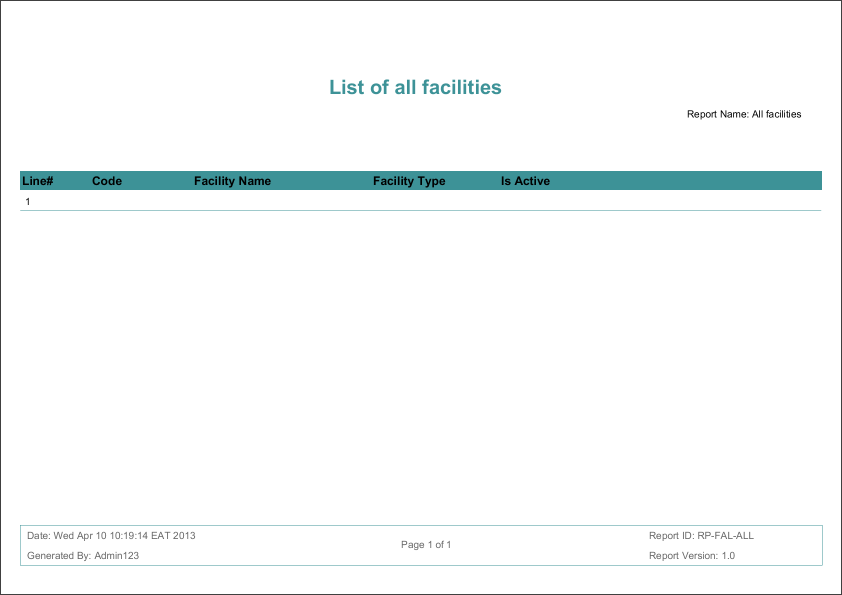
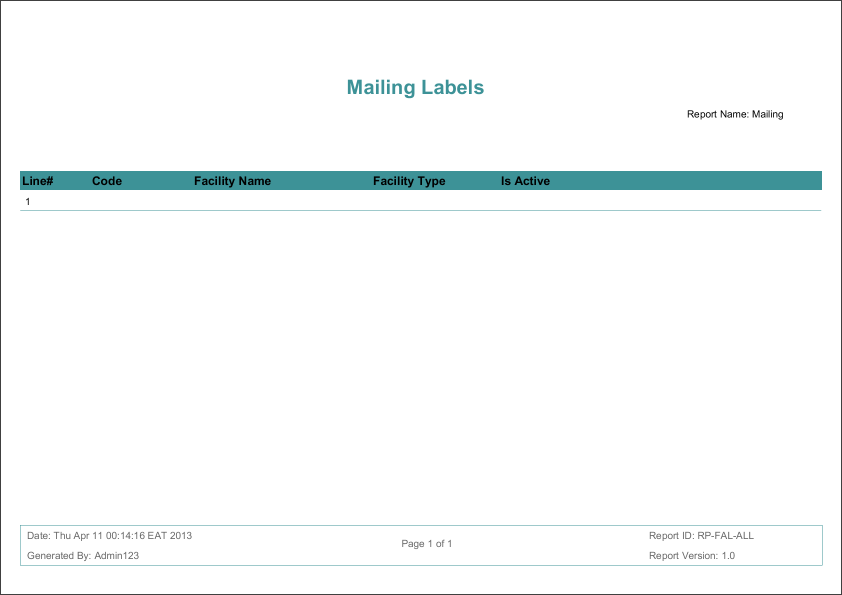
Mailing report filtering added

diff --git a/modules/openlmis-web/src/main/webapp/public/pages/reports/mailinglabels/partials/list.html b/modules/openlmis-web/src/main/webapp/public/pages/reports/mailinglabels/partials/list.html
@@ -59,8 +59,8 @@
         <div class="box-header" style="text-align: right">
           <!--   <h2><i class="icon-user"></i><span class="break"></span>Facility Lists</h2>-->
              <div class="box-icon">
-                  <a href="/reports/download/facilities/pdf" class='btn-small btn-info'>pdf</a>
-                  <a href="/reports/download/facilities/xls" class='btn-small btn-info'>xls</a>
+                 <a href="#" ng-click="export('pdf')" class='btn-small btn-info'>pdf</a>
+                 <a href="#" ng-click="export('xls')" class='btn-small btn-info'>xls</a>
              </div>
          </div>
                 <div class="gridStyleReport" ng-grid="gridOptions"></div>

diff --git a/modules/openlmis-web/src/main/webapp/public/js/mailinglabels/controller/list-mailinglabels-controller.js b/modules/openlmis-web/src/main/webapp/public/js/mailinglabels/controller/list-mailinglabels-controller.js
@@ -68,7 +68,10 @@ function ListMailinglabelsController($scope, MailingLabels, FacilityTypes, $http
             }
         });
 
-
+    $scope.export   = function (type){
+        var url = '/reports/download/mailinglabels/' + type +'?facilityCodeFilter=' +  $scope.filterObject.facilityCodeFilter + '&facilityNameFilter=' +  $scope.filterObject.facilityNameFilter ;
+        window.location.href = url;
+    }
         $scope.goToPage = function (page, event) {
             angular.element(event.target).parents(".dropdown").click();
             $location.search('page', page);

diff --git a/modules/report/src/main/java/org/openlmis/report/mapper/MailingLabelReportQueryBuilder.java b/modules/report/src/main/java/org/openlmis/report/mapper/MailingLabelReportQueryBuilder.java
@@ -25,43 +25,54 @@ public class MailingLabelReportQueryBuilder {
         MailingLabelReportFilter filter  =(MailingLabelReportFilter)params.get("filterCriteria");
         MailingLabelReportSorter sorter = (MailingLabelReportSorter)params.get("SortCriteria");
         BEGIN();
-        SELECT("F.id, F.code, F.name, F.active as active, FT.name as facilityType, GZ.name as region, FO.code as owner,F.mainphone as phoneNumber, F.fax as fax");
-        //FROM("facility_types FT");
+        SELECT("F.id, F.code, F.name, F.active as active, FT.name as facilityType, GZ.name as region, FO.code as owner, F.latitude, F.longitude, F.altitude,F.mainphone as phoneNumber, F.fax as fax");
         FROM("facilities F");
         JOIN("facility_types FT on FT.id = F.typeid");
         LEFT_OUTER_JOIN("geographic_zones GZ on GZ.id = F.geographiczoneid");
         LEFT_OUTER_JOIN("facility_operators FO on FO.id = F.operatedbyid");
 
-    /*    if (filter.getStatusId() != null) {
-            WHERE("F.active = #{filterCriteria.statusId}");
-        }
-        if (filter.getZoneId() != 0) {
-            WHERE("F.geographiczoneid = #{filterCriteria.zoneId}");
-        }
-        if (filter.getFacilityTypeId() != 0) {
-            WHERE("F.typeid = #{filterCriteria.facilityTypeId}");
-        } */
+        if(filter != null){
+            if(filter.getFacilityCode() != null && !filter.getFacilityCode().isEmpty()){
+                WHERE("F.code = #{filterCriteria.facilityCode}");
+            }
+            if(filter.getFacilityName() != null && !filter.getFacilityName().isEmpty()){
+                WHERE("F.name = #{filterCriteria.facilityName}");
+            }
+            if (filter.getStatusId() != null) {
+                WHERE("F.active = #{filterCriteria.statusId}");
+            }
+            if (filter.getZoneId() != 0) {
+                WHERE("F.geographiczoneid = #{filterCriteria.zoneId}");
+            }
+            if (filter.getFacilityTypeId() != 0) {
+                WHERE("F.typeid = #{filterCriteria.facilityTypeId}");
+            }
 
-        if(sorter.getFacilityName().equalsIgnoreCase("asc")){
-            ORDER_BY("F.name asc");
-        }
-        if(sorter.getFacilityName().equalsIgnoreCase("desc")){
-            ORDER_BY("F.name desc");
-        }
-
-        if(sorter.getCode().equalsIgnoreCase("asc")){
-            ORDER_BY("F.code asc");
-        }
-        if(sorter.getCode().equalsIgnoreCase("desc")){
-            ORDER_BY("F.code desc");
         }
 
-        if(sorter.getFacilityType().equalsIgnoreCase("asc")){
-            ORDER_BY("F.typeid asc");
+        if(sorter != null){
+            if(sorter.getFacilityName().equalsIgnoreCase("asc")){
+                ORDER_BY("F.name asc");
+            }
+            if(sorter.getFacilityName().equalsIgnoreCase("desc")){
+                ORDER_BY("F.name desc");
+            }
+
+            if(sorter.getCode().equalsIgnoreCase("asc")){
+                ORDER_BY("F.code asc");
+            }
+            if(sorter.getCode().equalsIgnoreCase("desc")){
+                ORDER_BY("F.code desc");
+            }
+
+            if(sorter.getFacilityType().equalsIgnoreCase("asc")){
+                ORDER_BY("F.typeid asc");
+            }
+            if(sorter.getFacilityType().equalsIgnoreCase("desc")){
+                ORDER_BY("F.typeid desc");
+            }
         }
-        if(sorter.getFacilityType().equalsIgnoreCase("desc")){
-            ORDER_BY("F.typeid desc");
-        }
+
 
         return SQL();
     }

diff --git a/modules/report/src/main/java/org/openlmis/report/dataprovider/MailingLabelReportDataProvider.java b/modules/report/src/main/java/org/openlmis/report/dataprovider/MailingLabelReportDataProvider.java
@@ -2,22 +2,19 @@ package org.openlmis.report.dataprovider;
 
 import lombok.NoArgsConstructor;
 import org.apache.ibatis.session.RowBounds;
+import org.openlmis.core.domain.Facility;
 import org.openlmis.core.service.FacilityService;
 import org.openlmis.report.mapper.FacilityReportMapper;
 import org.openlmis.report.mapper.MailingLabelReportMapper;
+import org.openlmis.report.model.FacilityReport;
+import org.openlmis.report.model.MailingLabelReport;
 import org.openlmis.report.model.ReportData;
 import org.springframework.beans.factory.annotation.Autowired;
 import org.springframework.stereotype.Component;
 
+import java.util.ArrayList;
 import java.util.List;
 
-/**
- * Created with IntelliJ IDEA.
- * User: user
- * Date: 4/10/13
- * Time: 6:02 AM
- * To change this template use File | Settings | File Templates.
- */
 @Component
 @NoArgsConstructor
 public class MailingLabelReportDataProvider extends ReportDataProvider {
@@ -34,12 +31,22 @@ public class MailingLabelReportDataProvider extends ReportDataProvider {
 
     @Override
     protected List<? extends ReportData> getBeanCollectionReportData(ReportData filterCriteria) {
-        return null;  //To change body of implemented methods use File | Settings | File Templates.
+        /*if(filterCriteria == null) {
+
+            List<Facility> facilities = facilityService.getAllFacilitiesDetail();
+            return getListMailingLabelsReport(facilities);
+        }
+        if (!(filterCriteria instanceof FacilityReport)) return null;
+
+        FacilityReport filter = (FacilityReport) filterCriteria;
+        List<Facility> facilities = facilityService.searchFacilitiesByCodeOrName(filter.getFacilityName());
+        return getListMailingLabelsReport(facilities);*/
+       return getReportDataByFilterCriteriaAndPagingAndSorting(filterCriteria,null,RowBounds.NO_ROW_OFFSET, RowBounds.NO_ROW_LIMIT);
     }
 
     @Override
     protected List<? extends ReportData> getResultSetReportData(ReportData filterCriteria) {
-        return null;  //To change body of implemented methods use File | Settings | File Templates.
+        return null;
     }
 
     @Override
@@ -51,5 +58,21 @@ public class MailingLabelReportDataProvider extends ReportDataProvider {
     @Override
     public int getReportDataCountByFilterCriteria(ReportData mailingLabelReportFilter) {
         return (int)mailingLabelReportMapper.SelectFilteredFacilitiesCount(mailingLabelReportFilter);
+    }
+
+    private List<ReportData> getListMailingLabelsReport(List<Facility> facilityList){
+
+        if (facilityList == null) return null;
+
+        List<ReportData> facilityReportList = new ArrayList<>(facilityList.size());
+
+        for(Facility facility: facilityList){
+            facilityReportList.add(getMailingLabelReport(facility));
+        }
+
+        return facilityReportList;
+    }
+    private ReportData getMailingLabelReport(Facility facility){
+       return null;
     }
 }

diff --git a/modules/openlmis-web/src/main/java/org/openlmis/web/controller/ReportController.java b/modules/openlmis-web/src/main/java/org/openlmis/web/controller/ReportController.java
@@ -49,26 +49,28 @@ public class ReportController  extends BaseController {
     @RequestMapping(value = "/download/{reportKey}/{outputOption}")
     public void showReport(
                                 @PathVariable(value = "reportKey") String reportKey
-                                , @PathVariable(value = "outputOption") String outputOption
-
-
-                                , @RequestParam(value = "zoneId", required = false, defaultValue = "0") int zoneId
-                                , @RequestParam(value = "facilityTypeId", required = false, defaultValue = "0") int facilityTypeId
-                                , @RequestParam(value = "statusId", required = false, defaultValue = "" ) Boolean statusId
-
-                                , ModelMap modelMap
-                                , HttpServletRequest request
-                                , HttpServletResponse response
+                                ,@PathVariable(value = "outputOption") String outputOption
+                                ,@RequestParam(value = "zoneId", required = false, defaultValue = "0") int zoneId
+                                ,@RequestParam(value = "facilityTypeId", required = false, defaultValue = "0") int facilityTypeId
+                                ,@RequestParam(value = "statusId", required = false, defaultValue = "" ) Boolean statusId
+                                ,@RequestParam(value = "facilityCodeFilter", required = false, defaultValue = "0") String facilityCodeFilter
+                                ,@RequestParam(value = "facilityNameFilter", required = false, defaultValue = "" ) String facilityNameFilter
+                                ,HttpServletRequest request
+                                ,HttpServletResponse response
                             )
     {
+        MailingLabelReportFilter mailingLabelReportFilter = new MailingLabelReportFilter();
+        mailingLabelReportFilter.setFacilityCode(facilityCodeFilter);
+        mailingLabelReportFilter.setFacilityName(facilityNameFilter);
+
        Integer userId = (Integer) request.getSession().getAttribute(USER_ID);
 
         switch (outputOption.toUpperCase()){
             case "PDF":
-                reportManager.showReport(userId, reportKey, null, ReportOutputOption.PDF, response);
+                reportManager.showReport(userId, reportKey, mailingLabelReportFilter, ReportOutputOption.PDF, response);
                 break;
             case "XLS":
-                reportManager.showReport(userId, reportKey, null, ReportOutputOption.XLS, response);
+                reportManager.showReport(userId, reportKey, mailingLabelReportFilter, ReportOutputOption.XLS, response);
         }
 
     }

diff --git a/modules/report/src/main/java/org/openlmis/report/mapper/MailingLabelReportMapper.java b/modules/report/src/main/java/org/openlmis/report/mapper/MailingLabelReportMapper.java
@@ -4,6 +4,7 @@ import org.apache.ibatis.annotations.*;
 import org.apache.ibatis.mapping.ResultSetType;
 import org.apache.ibatis.session.RowBounds;
 import org.openlmis.report.model.FacilityReport;
+import org.openlmis.report.model.MailingLabelReport;
 import org.openlmis.report.model.ReportData;
 import org.springframework.stereotype.Repository;
 
@@ -30,10 +31,11 @@ public interface MailingLabelReportMapper {
             @Result(column="facilityType", property="facilityType"),
             @Result(column="region", property="region"),
             @Result(column="owner", property="owner"),
+            @Result(column ="latitude", property = "gpsCoordinates"),
             @Result(column="phoneNumber", property="phoneNumber"),
             @Result(column="fax", property="fax")
     })
-    public List<FacilityReport> SelectFilteredSortedPagedFacilities(
+    public List<MailingLabelReport> SelectFilteredSortedPagedFacilities(
             @Param("filterCriteria") ReportData filterCriteria,
             @Param("SortCriteria") ReportData SortCriteria,
             @Param("RowBounds") RowBounds rowBounds

diff --git a/modules/report/src/main/java/org/openlmis/report/dataprovider/FacilityReportDataProvider.java b/modules/report/src/main/java/org/openlmis/report/dataprovider/FacilityReportDataProvider.java
@@ -42,8 +42,8 @@ public class FacilityReportDataProvider extends ReportDataProvider {
 
     private ReportData getFacilityReport(Facility facility){
         if(facility == null) return null;
-        return  null;
-        //return new FacilityReport(facility.getCode(),facility.getName(),facility.getFacilityType() != null ? facility.getFacilityType().getName() : null,facility.getActive(),facility.getOperatedBy().getText(),facility.getLatitude(),facility.getLongitude(),facility.getAltitude(),null,facility.getMainPhone(),null, null);
+        return new FacilityReport(facility.getCode(),facility.getName(),facility.getFacilityType() != null ? facility.getFacilityType().getName() : null,facility.getActive(),facility.getAddress1(),facility.getOperatedBy() != null ? facility.getOperatedBy().getText() : null ,null,null,facility.getMainPhone(),null,null);
+
     }
 
     private List<ReportData> getListFacilityReport(List<Facility> facilityList){

diff --git a/modules/report/src/main/java/org/openlmis/report/ReportManager.java b/modules/report/src/main/java/org/openlmis/report/ReportManager.java
@@ -83,7 +83,6 @@ public class ReportManager {
        }
 
        User currentUser = userService.getById(userId);
-
        List<? extends ReportData> dataSource = report.getReportDataProvider().getReportDataByFilterCriteria(parameter, DataSourceType.BEAN_COLLECTION_DATA_SOURCE);
 
        reportExporter.exportReport(this.getClass().getClassLoader().getResourceAsStream(report.getTemplate()),getReportExtraParams(report, currentUser.getUserName()), dataSource, outputOption, response );

diff --git a/modules/report/src/main/java/org/openlmis/report/model/MailingLabelReport.java b/modules/report/src/main/java/org/openlmis/report/model/MailingLabelReport.java
@@ -21,9 +21,9 @@ public class MailingLabelReport implements ReportData  {
     private boolean active;
     private String region;
     private String owner;
-    private String GPSCoordinates;
-    private String Email;
+    private String gpsCoordinates;
+    private String email;
     private String phoneNumber;
-    private String MSLMSDCode;
+    private String mslOrmsdCode;
     private String fax;
 }

diff --git a/modules/report/src/main/java/org/openlmis/report/model/MailingLabelReportFilter.java b/modules/report/src/main/java/org/openlmis/report/model/MailingLabelReportFilter.java
@@ -20,6 +20,8 @@ public class MailingLabelReportFilter implements ReportData {
     private String facilityCode;
     private String facilityName;
     private int facilityTypeId;
+    private Boolean statusId;
+    private int zoneId;
 
 
 }
